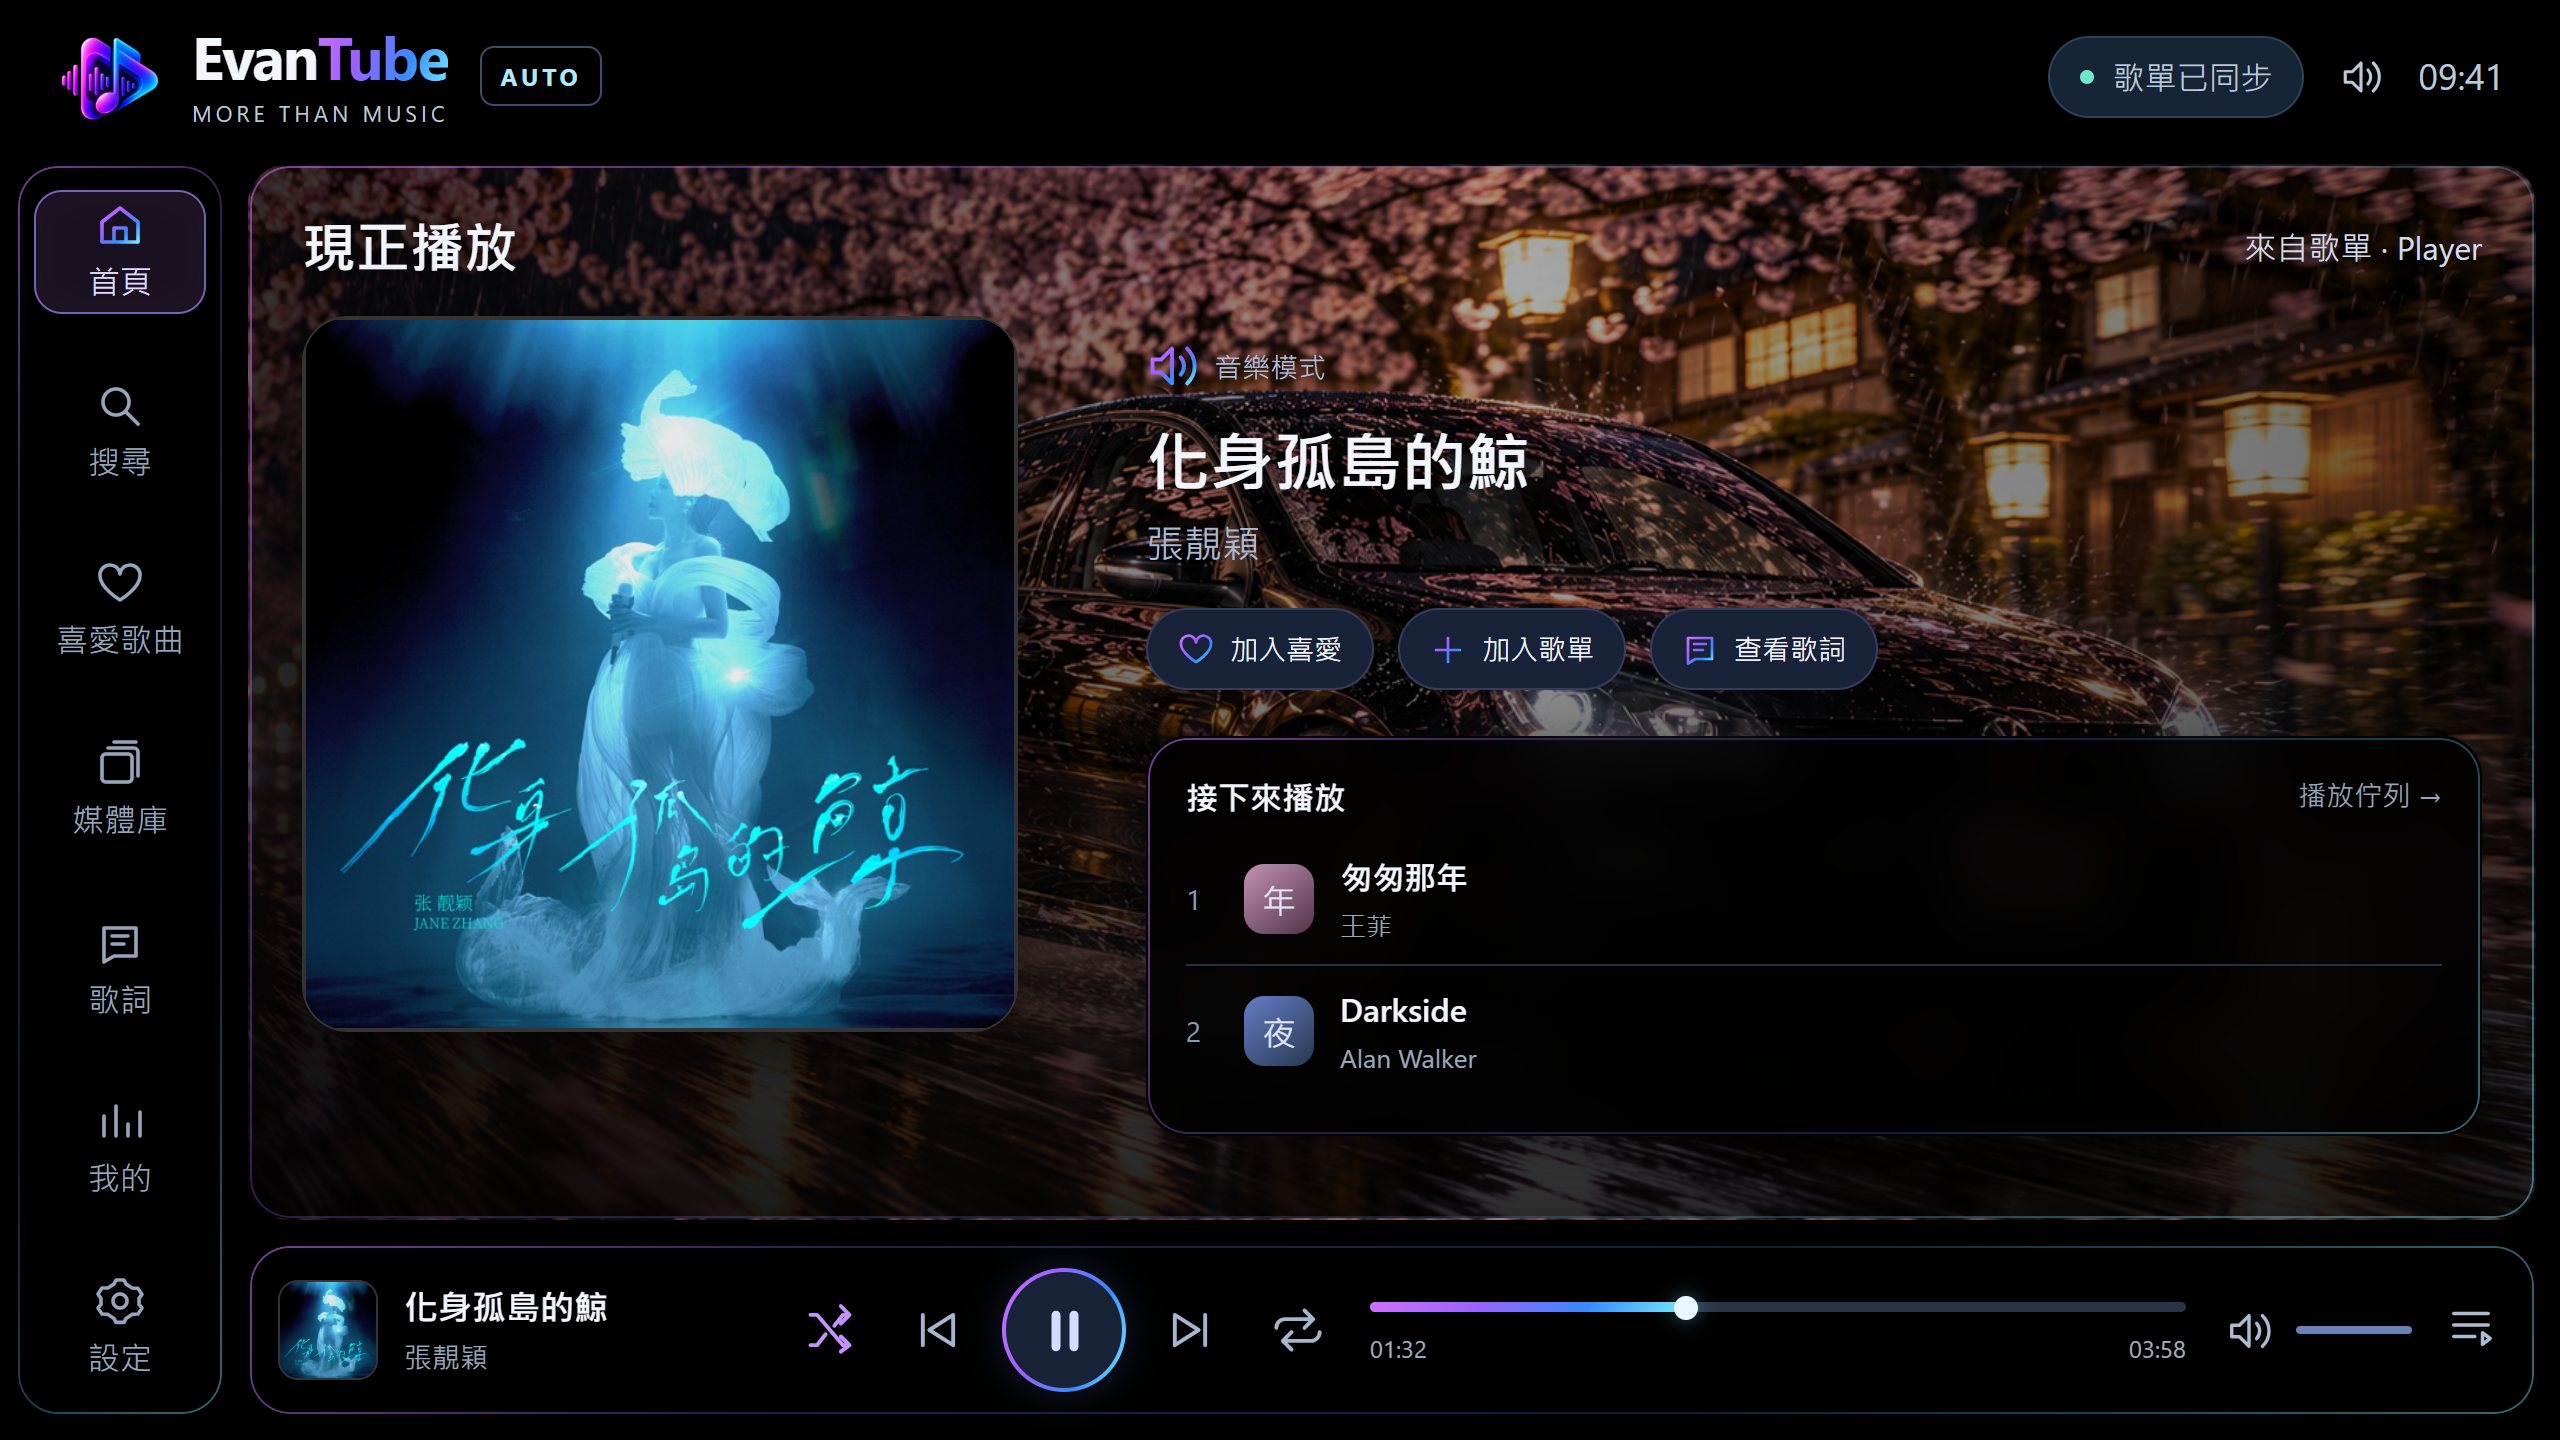
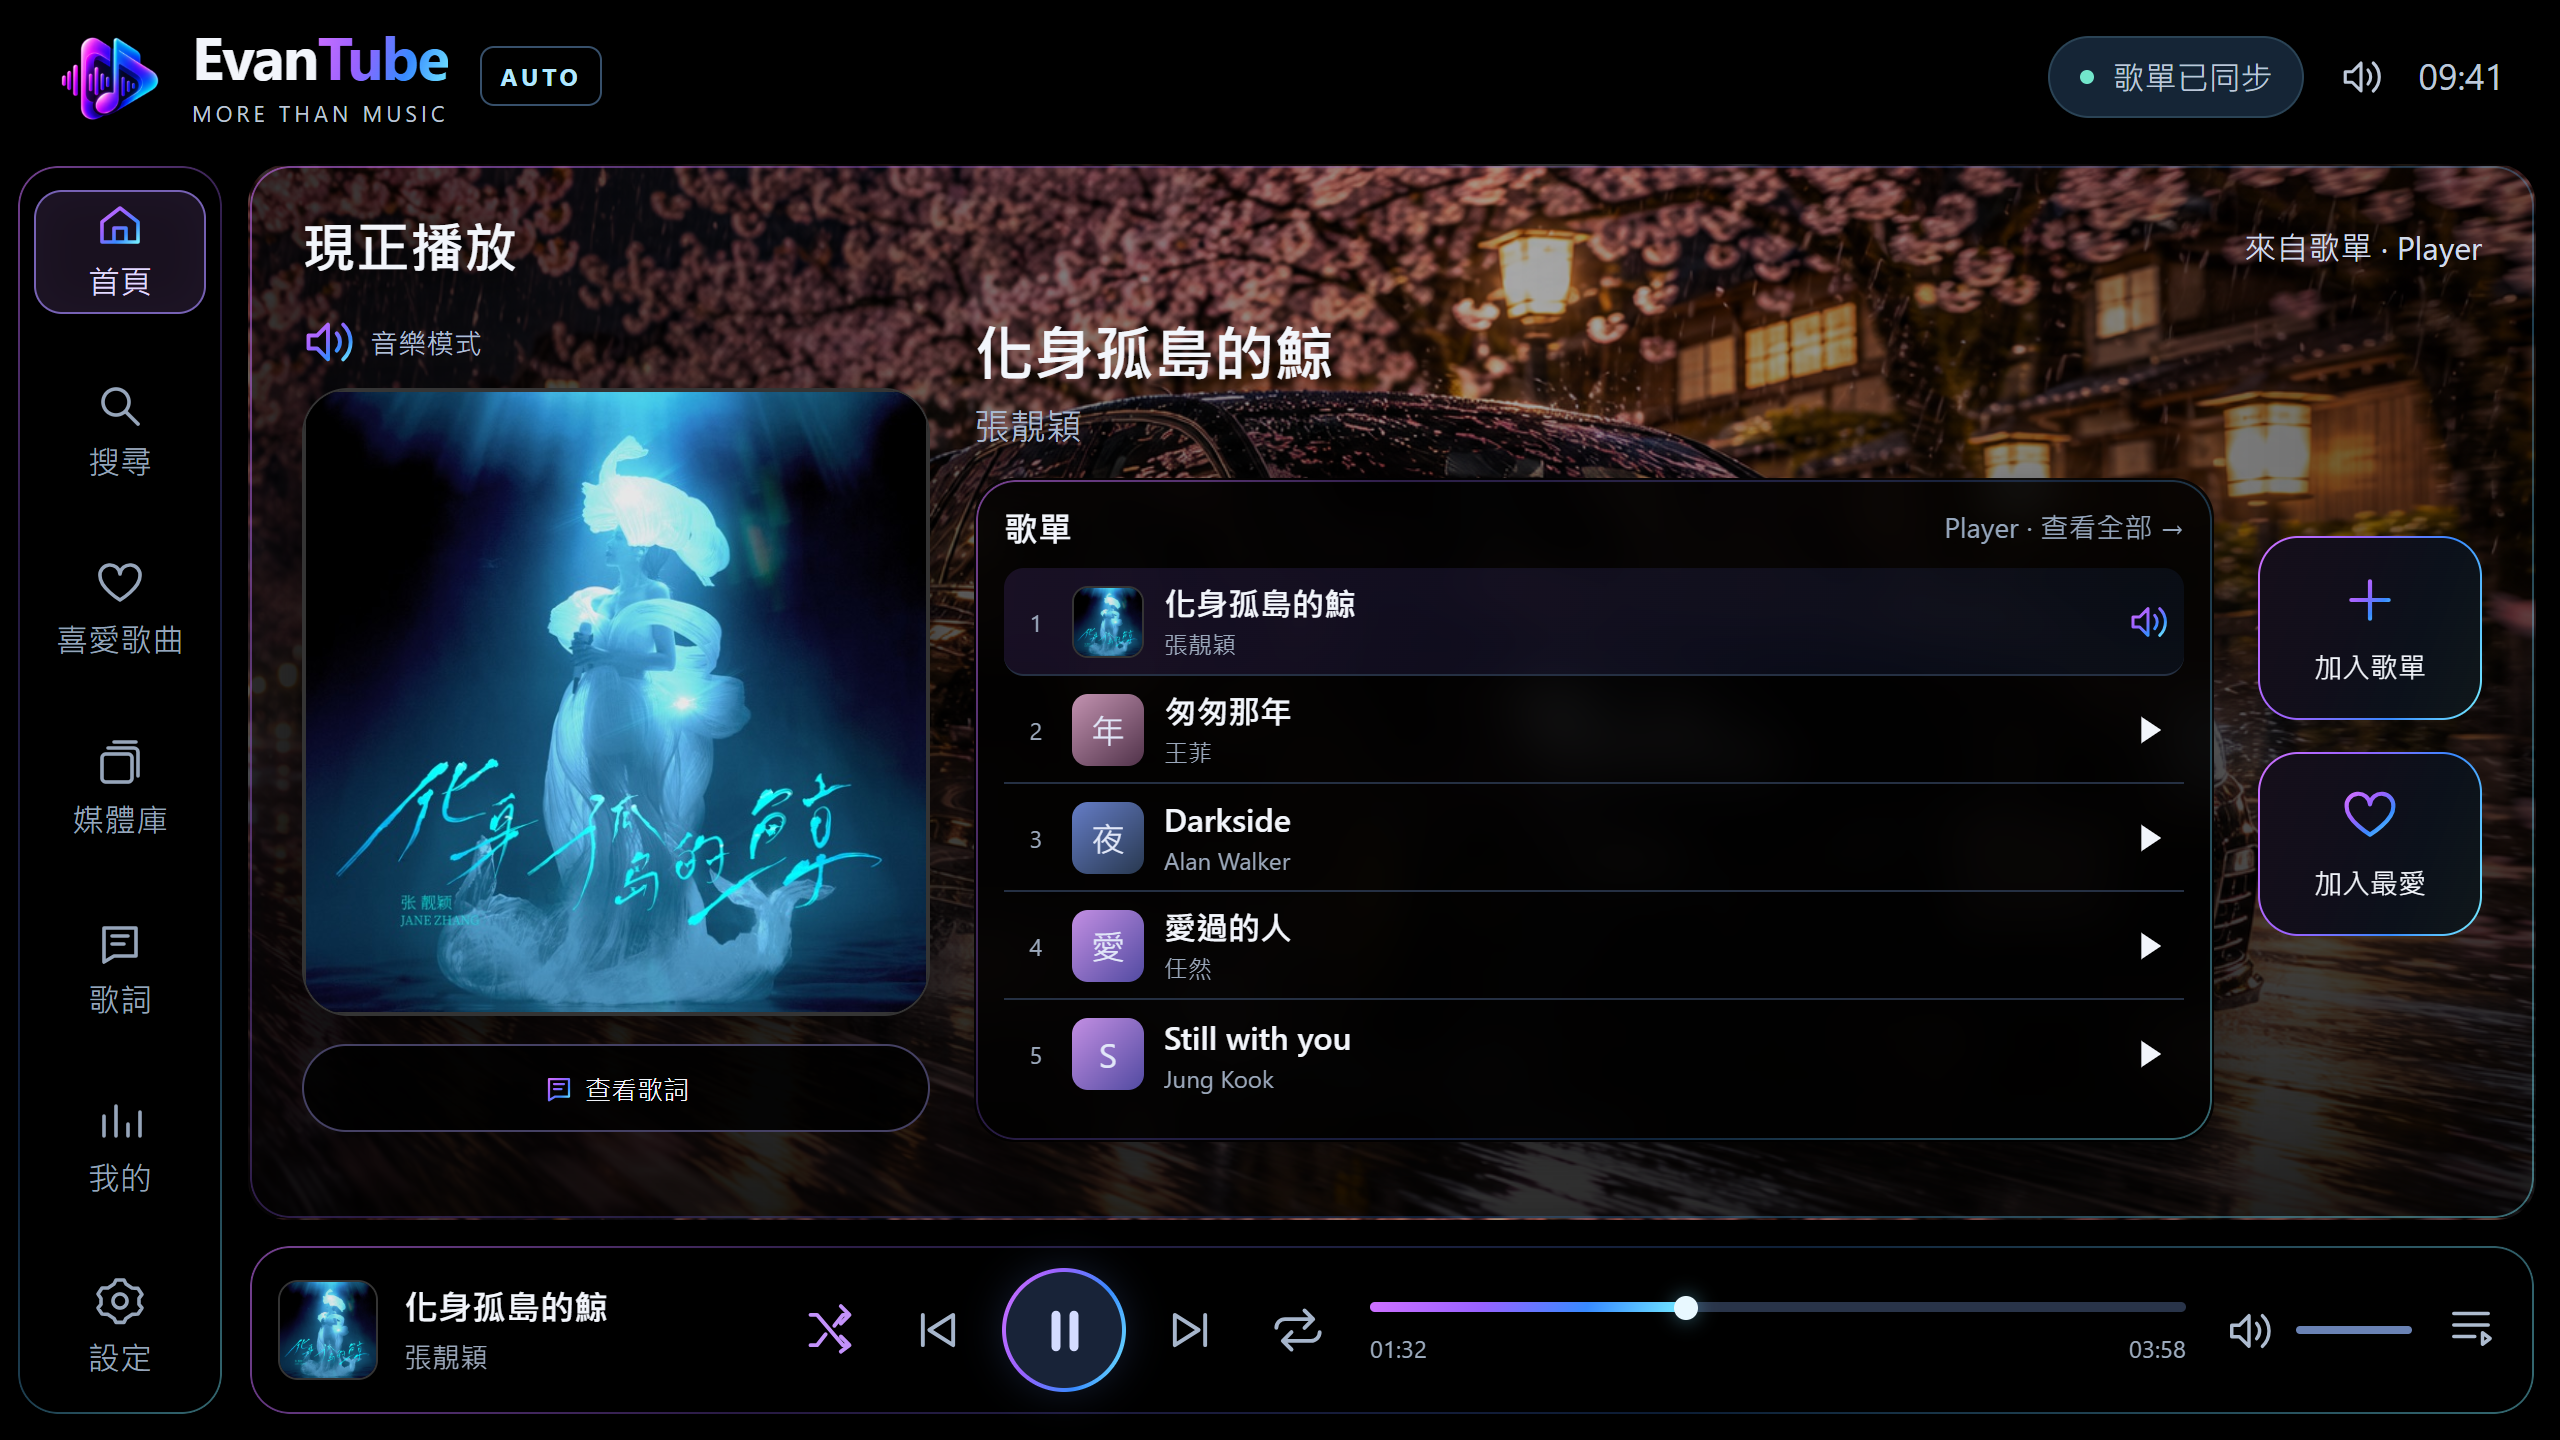
docs: preview five-song now-playing playlist with vertical actions

Changed region(s): [[0.0938, 0.2188, 0.9688, 0.8125], [0.5938, 0.7812, 0.625, 0.8125]]

diff --git a/docs/previews/android-auto-rounded-glass/README.md b/docs/previews/android-auto-rounded-glass/README.md
@@ -6,6 +6,8 @@
 
 主內容卡片保留約 87% 不透明的黑色與輕微背景模糊，背景圖延展範圍仍限於右側主內容。專輯封面保持原色。
 
+現正播放頁的「接下來播放」改為「歌單」，框內完整顯示 5 首歌曲並標示當前歌曲。「加入歌單」與「加入最愛」移至最右側直排，「查看歌詞」放在專輯封面下方。
+
 這些是供審核的靜態預覽，尚未套用到正式 Android APK。歌曲、數量、歌詞與同步狀態為示範內容。
 
 手機點選圖片即可放大或儲存。
